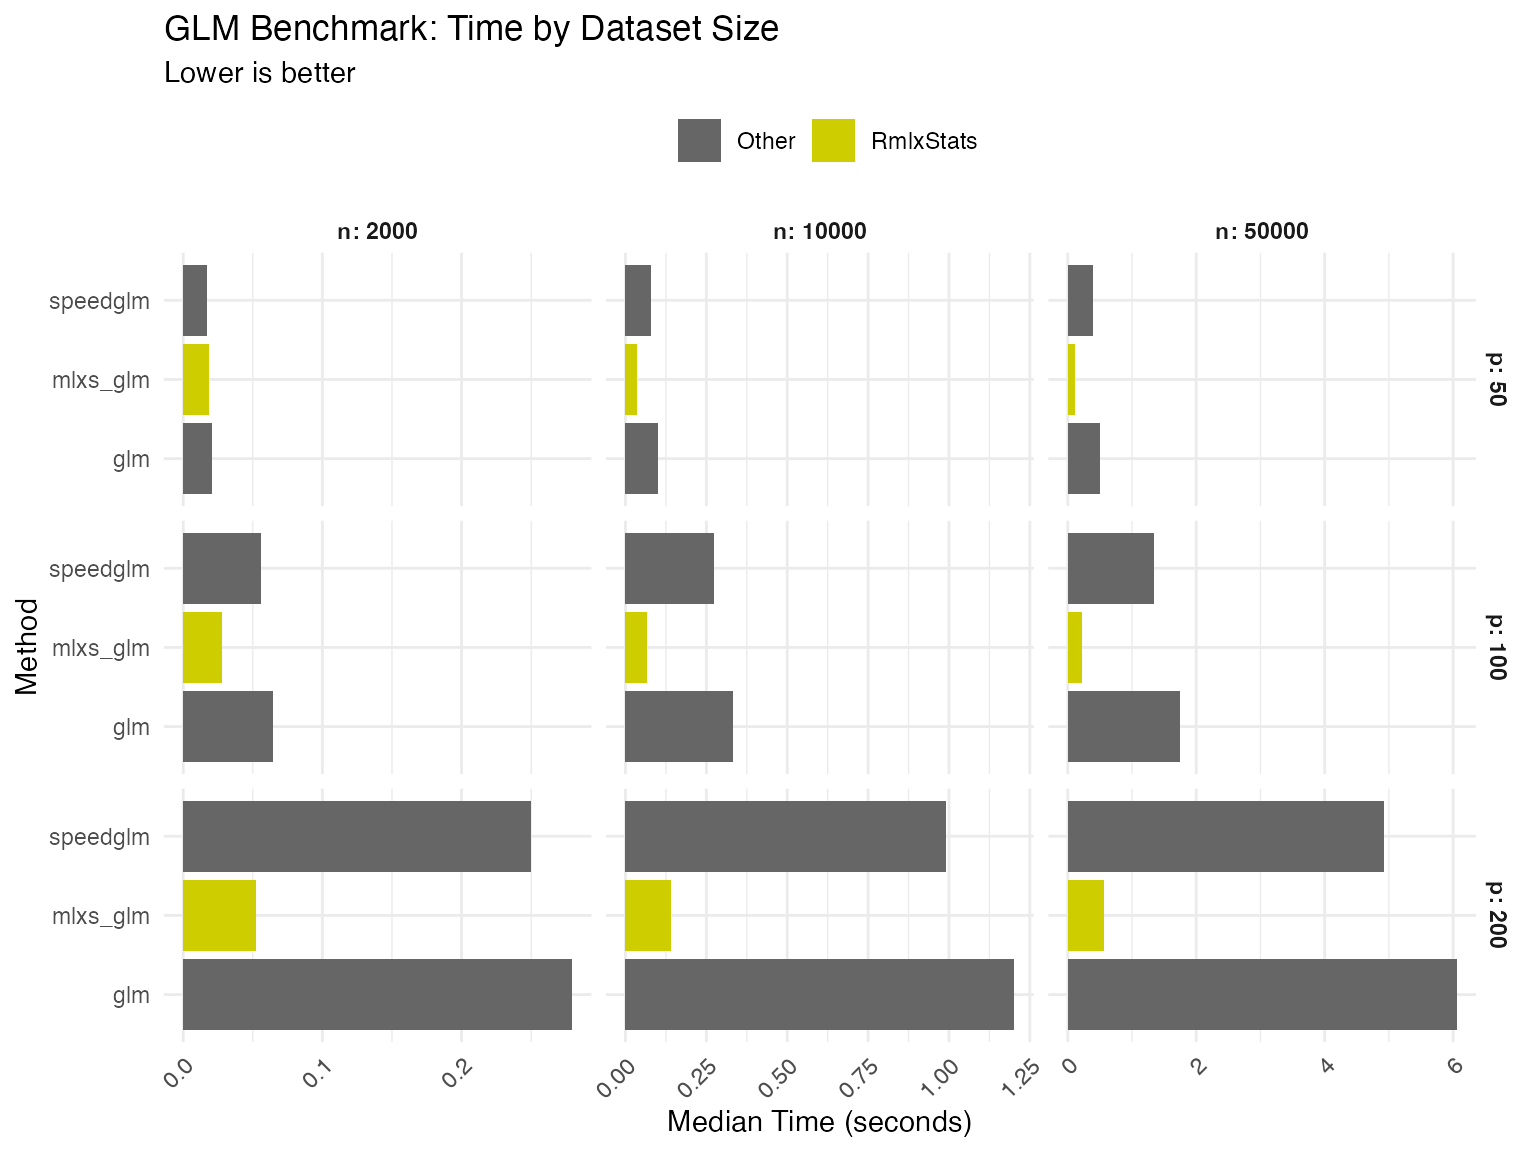
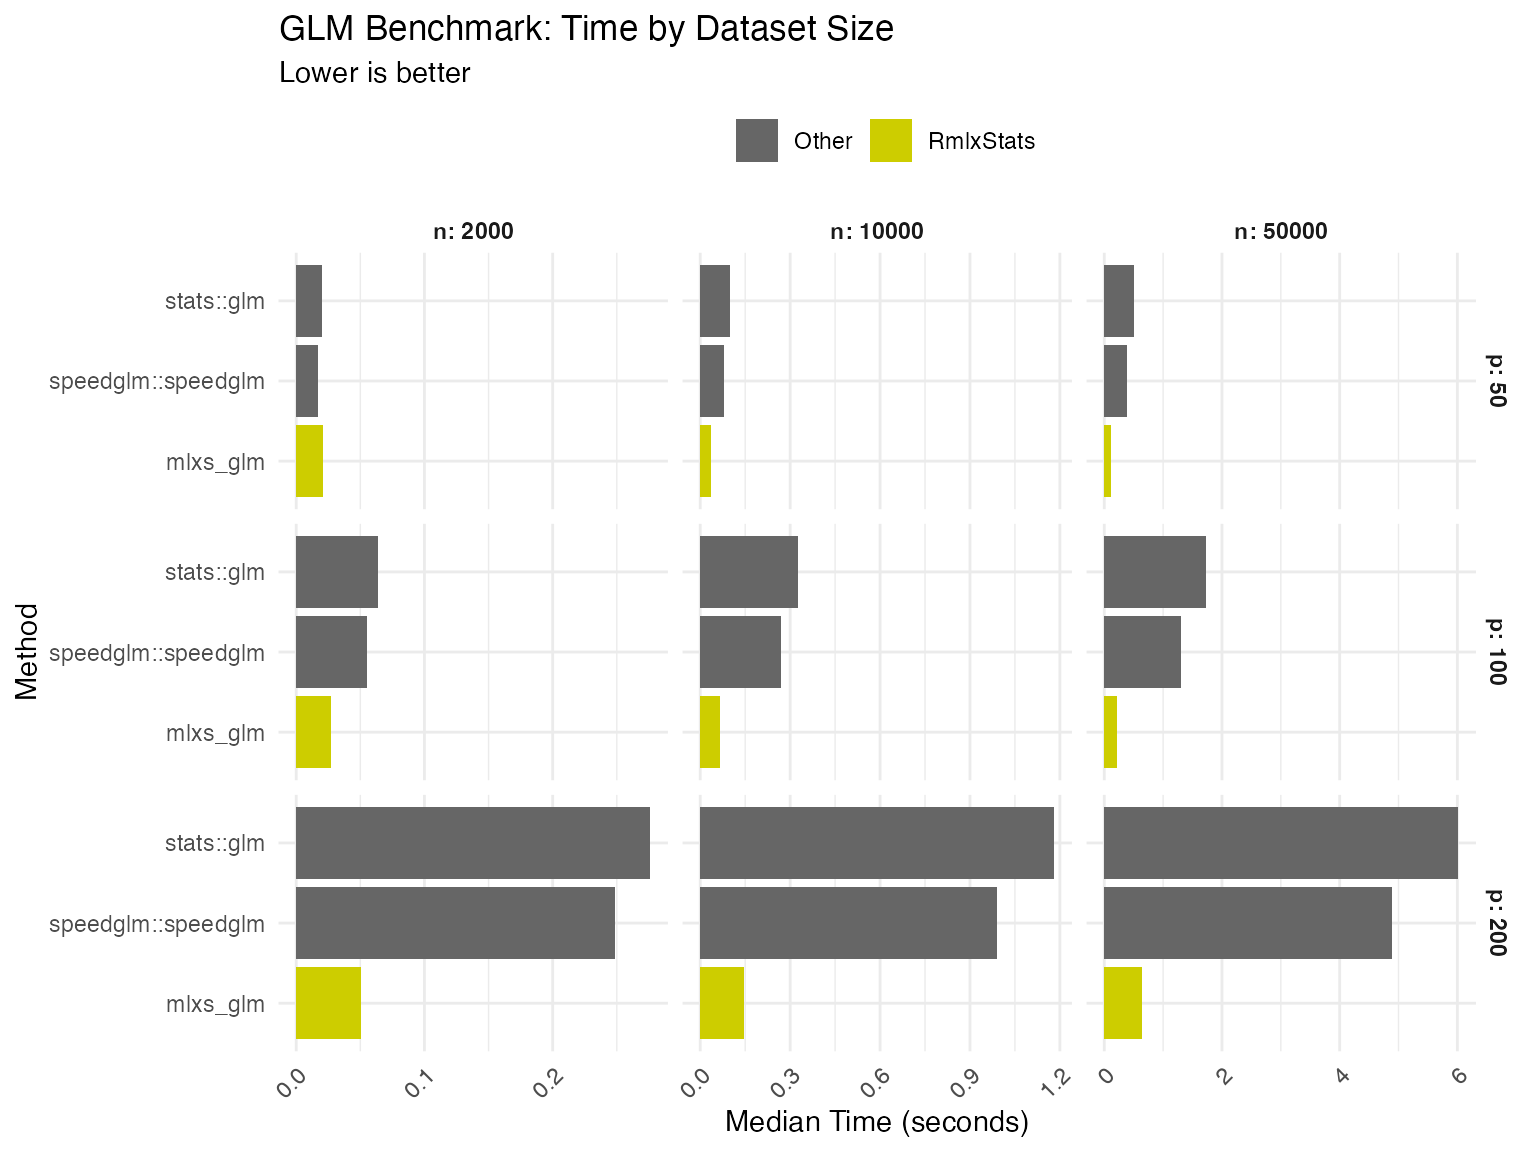
Built site for RmlxStats@0.1.0:

diff --git a/articles/benchmarks.html b/articles/benchmarks.html
@@ -119,14 +119,14 @@ predictors (<code>p</code>).</p>
 <span>  <span class="va">lm_formula</span> <span class="op">&lt;-</span> <span class="fu"><a href="https://rdrr.io/r/stats/formula.html" class="external-link">as.formula</a></span><span class="op">(</span><span class="va">formula_str</span><span class="op">)</span></span>
 <span></span>
 <span>  <span class="va">bm</span> <span class="op">&lt;-</span> <span class="fu">mark</span><span class="op">(</span></span>
-<span>    lm <span class="op">=</span> <span class="fu"><a href="https://rdrr.io/r/stats/lm.html" class="external-link">lm</a></span><span class="op">(</span><span class="va">lm_formula</span>, data <span class="op">=</span> <span class="va">subset_data</span><span class="op">)</span>,</span>
+<span>    <span class="st">"stats::lm"</span> <span class="op">=</span> <span class="fu"><a href="https://rdrr.io/r/stats/lm.html" class="external-link">lm</a></span><span class="op">(</span><span class="va">lm_formula</span>, data <span class="op">=</span> <span class="va">subset_data</span><span class="op">)</span>,</span>
 <span>    mlxs_lm <span class="op">=</span> <span class="op">{</span></span>
 <span>      <span class="va">l</span> <span class="op">&lt;-</span> <span class="fu"><a href="../reference/mlxs_lm.html">mlxs_lm</a></span><span class="op">(</span><span class="va">lm_formula</span>, data <span class="op">=</span> <span class="va">subset_data</span><span class="op">)</span></span>
 <span>      <span class="fu">Rmlx</span><span class="fu">::</span><span class="fu"><a href="https://hughjonesd.github.io/Rmlx/reference/mlx_eval.html" class="external-link">mlx_eval</a></span><span class="op">(</span><span class="va">l</span><span class="op">$</span><span class="va">coefficients</span><span class="op">)</span></span>
 <span>    <span class="op">}</span>,</span>
-<span>    feols <span class="op">=</span> <span class="fu">feols</span><span class="op">(</span><span class="va">lm_formula</span>, data <span class="op">=</span> <span class="va">subset_data</span><span class="op">)</span>,</span>
-<span>    fastLm <span class="op">=</span> <span class="fu">RcppEigen</span><span class="fu">::</span><span class="fu"><a href="https://rdrr.io/pkg/RcppEigen/man/fastLm.html" class="external-link">fastLm</a></span><span class="op">(</span><span class="va">lm_formula</span>, data <span class="op">=</span> <span class="va">subset_data</span><span class="op">)</span>,</span>
-<span>    speedlm <span class="op">=</span> <span class="fu">speedglm</span><span class="fu">::</span><span class="fu"><a href="https://rdrr.io/pkg/speedglm/man/speedlm.html" class="external-link">speedlm</a></span><span class="op">(</span><span class="va">lm_formula</span>, data <span class="op">=</span> <span class="va">subset_data</span><span class="op">)</span>,</span>
+<span>    <span class="st">"fixest::feols"</span> <span class="op">=</span> <span class="fu">feols</span><span class="op">(</span><span class="va">lm_formula</span>, data <span class="op">=</span> <span class="va">subset_data</span><span class="op">)</span>,</span>
+<span>    <span class="st">"RcppEigen::fastLm"</span> <span class="op">=</span> <span class="fu">RcppEigen</span><span class="fu">::</span><span class="fu"><a href="https://rdrr.io/pkg/RcppEigen/man/fastLm.html" class="external-link">fastLm</a></span><span class="op">(</span><span class="va">lm_formula</span>, data <span class="op">=</span> <span class="va">subset_data</span><span class="op">)</span>,</span>
+<span>    <span class="st">"speedglm::speedlm"</span> <span class="op">=</span> <span class="fu">speedglm</span><span class="fu">::</span><span class="fu"><a href="https://rdrr.io/pkg/speedglm/man/speedlm.html" class="external-link">speedlm</a></span><span class="op">(</span><span class="va">lm_formula</span>, data <span class="op">=</span> <span class="va">subset_data</span><span class="op">)</span>,</span>
 <span>    iterations <span class="op">=</span> <span class="fl">3</span>,</span>
 <span>    check <span class="op">=</span> <span class="cn">FALSE</span>,</span>
 <span>    filter_gc <span class="op">=</span> <span class="cn">FALSE</span></span>
@@ -155,7 +155,7 @@ predictors (<code>p</code>).</p>
 <span>  <span class="va">glm_formula</span> <span class="op">&lt;-</span> <span class="fu"><a href="https://rdrr.io/r/stats/formula.html" class="external-link">as.formula</a></span><span class="op">(</span><span class="va">formula_str</span><span class="op">)</span></span>
 <span></span>
 <span>  <span class="va">bm</span> <span class="op">&lt;-</span> <span class="fu">mark</span><span class="op">(</span></span>
-<span>    glm <span class="op">=</span> <span class="fu"><a href="https://rdrr.io/r/stats/glm.html" class="external-link">glm</a></span><span class="op">(</span><span class="va">glm_formula</span>, family <span class="op">=</span> <span class="fu"><a href="https://rdrr.io/r/stats/family.html" class="external-link">binomial</a></span><span class="op">(</span><span class="op">)</span>,</span>
+<span>    <span class="st">"stats::glm"</span> <span class="op">=</span> <span class="fu"><a href="https://rdrr.io/r/stats/glm.html" class="external-link">glm</a></span><span class="op">(</span><span class="va">glm_formula</span>, family <span class="op">=</span> <span class="fu"><a href="https://rdrr.io/r/stats/family.html" class="external-link">binomial</a></span><span class="op">(</span><span class="op">)</span>,</span>
 <span>                             data <span class="op">=</span> <span class="va">subset_data</span>,</span>
 <span>                             control <span class="op">=</span> <span class="fu"><a href="https://rdrr.io/r/base/list.html" class="external-link">list</a></span><span class="op">(</span>maxit <span class="op">=</span> <span class="fl">50</span><span class="op">)</span><span class="op">)</span>,</span>
 <span>    mlxs_glm <span class="op">=</span> <span class="op">{</span></span>
@@ -164,7 +164,7 @@ predictors (<code>p</code>).</p>
 <span>                        control <span class="op">=</span> <span class="fu"><a href="https://rdrr.io/r/base/list.html" class="external-link">list</a></span><span class="op">(</span>maxit <span class="op">=</span> <span class="fl">50</span>, epsilon <span class="op">=</span> <span class="fl">1e-6</span><span class="op">)</span><span class="op">)</span></span>
 <span>      <span class="fu">Rmlx</span><span class="fu">::</span><span class="fu"><a href="https://hughjonesd.github.io/Rmlx/reference/mlx_eval.html" class="external-link">mlx_eval</a></span><span class="op">(</span><span class="va">g</span><span class="op">$</span><span class="va">coefficients</span><span class="op">)</span></span>
 <span>    <span class="op">}</span>,</span>
-<span>    speedglm <span class="op">=</span> <span class="fu">speedglm</span><span class="fu">::</span><span class="fu"><a href="https://rdrr.io/pkg/speedglm/man/speedglm.html" class="external-link">speedglm</a></span><span class="op">(</span><span class="va">glm_formula</span>, family <span class="op">=</span> <span class="fu"><a href="https://rdrr.io/r/stats/family.html" class="external-link">binomial</a></span><span class="op">(</span><span class="op">)</span>,</span>
+<span>    <span class="st">"speedglm::speedglm"</span> <span class="op">=</span> <span class="fu">speedglm</span><span class="fu">::</span><span class="fu"><a href="https://rdrr.io/pkg/speedglm/man/speedglm.html" class="external-link">speedglm</a></span><span class="op">(</span><span class="va">glm_formula</span>, family <span class="op">=</span> <span class="fu"><a href="https://rdrr.io/r/stats/family.html" class="external-link">binomial</a></span><span class="op">(</span><span class="op">)</span>,</span>
 <span>                                   data <span class="op">=</span> <span class="va">subset_data</span><span class="op">)</span>,</span>
 <span>    iterations <span class="op">=</span> <span class="fl">3</span>,</span>
 <span>    check <span class="op">=</span> <span class="cn">FALSE</span>,</span>
@@ -272,77 +272,33 @@ fastest alternative tested. Numbers show
 <caption>RmlxStats vs Base R (%). Above 100% → RmlxStats is
 faster</caption>
 <colgroup>
-<col width="14%">
-<col width="8%">
-<col width="9%">
-<col width="9%">
-<col width="9%">
-<col width="10%">
-<col width="10%">
-<col width="9%">
-<col width="10%">
-<col width="10%">
+<col width="27%">
+<col width="16%">
+<col width="18%">
+<col width="18%">
+<col width="19%">
 </colgroup>
 <thead><tr class="header">
 <th align="left"></th>
 <th align="right">n=2000, p=50</th>
 <th align="right">n=10000, p=50</th>
-<th align="right">n=50000, p=50</th>
 <th align="right">n=2000, p=100</th>
 <th align="right">n=10000, p=100</th>
-<th align="right">n=50000, p=100</th>
-<th align="right">n=2000, p=200</th>
-<th align="right">n=10000, p=200</th>
-<th align="right">n=50000, p=200</th>
 </tr></thead>
 <tbody>
 <tr class="odd">
-<td align="left">Linear Model</td>
-<td align="right">157.0</td>
-<td align="right">221.2</td>
-<td align="right">268.1</td>
-<td align="right">238.5</td>
-<td align="right">359.2</td>
-<td align="right">411.7</td>
-<td align="right">392.0</td>
-<td align="right">581.9</td>
-<td align="right">814.5</td>
-</tr>
-<tr class="even">
-<td align="left">Logistic Regression</td>
-<td align="right">110.3</td>
-<td align="right">276.7</td>
-<td align="right">439.8</td>
-<td align="right">232.9</td>
-<td align="right">502.6</td>
-<td align="right">795.5</td>
-<td align="right">531.1</td>
-<td align="right">851.9</td>
-<td align="right">1070.0</td>
-</tr>
-<tr class="odd">
 <td align="left">Bootstrap (Case)</td>
-<td align="right">374.2</td>
-<td align="right">460.5</td>
-<td align="right"></td>
-<td align="right">513.3</td>
-<td align="right">621.3</td>
-<td align="right"></td>
-<td align="right"></td>
-<td align="right"></td>
-<td align="right"></td>
+<td align="right">374.1</td>
+<td align="right">463.6</td>
+<td align="right">334.1</td>
+<td align="right">629.0</td>
 </tr>
 <tr class="even">
 <td align="left">Bootstrap (Residual)</td>
-<td align="right">126.7</td>
-<td align="right">236.8</td>
-<td align="right"></td>
-<td align="right">358.3</td>
-<td align="right">626.9</td>
-<td align="right"></td>
-<td align="right"></td>
-<td align="right"></td>
-<td align="right"></td>
+<td align="right">131.5</td>
+<td align="right">226.1</td>
+<td align="right">321.2</td>
+<td align="right">636.4</td>
 </tr>
 </tbody>
 </table>
@@ -350,77 +306,33 @@ faster</caption>
 <caption>RmlxStats vs Fastest Alternative (%). Above 100% → RmlxStats is
 faster</caption>
 <colgroup>
-<col width="14%">
-<col width="8%">
-<col width="9%">
-<col width="9%">
-<col width="9%">
-<col width="10%">
-<col width="10%">
-<col width="9%">
-<col width="10%">
-<col width="10%">
+<col width="27%">
+<col width="16%">
+<col width="18%">
+<col width="18%">
+<col width="19%">
 </colgroup>
 <thead><tr class="header">
 <th align="left"></th>
 <th align="right">n=2000, p=50</th>
 <th align="right">n=10000, p=50</th>
-<th align="right">n=50000, p=50</th>
 <th align="right">n=2000, p=100</th>
 <th align="right">n=10000, p=100</th>
-<th align="right">n=50000, p=100</th>
-<th align="right">n=2000, p=200</th>
-<th align="right">n=10000, p=200</th>
-<th align="right">n=50000, p=200</th>
 </tr></thead>
 <tbody>
 <tr class="odd">
-<td align="left">Linear Model</td>
-<td align="right">103.7</td>
-<td align="right">130.7</td>
-<td align="right">171.7</td>
-<td align="right">124.5</td>
-<td align="right">183.4</td>
-<td align="right">205.4</td>
-<td align="right">163.5</td>
-<td align="right">255.0</td>
-<td align="right">364.5</td>
-</tr>
-<tr class="even">
-<td align="left">Logistic Regression</td>
-<td align="right">92.2</td>
-<td align="right">216.0</td>
-<td align="right">341.5</td>
-<td align="right">201.3</td>
-<td align="right">411.6</td>
-<td align="right">610.2</td>
-<td align="right">475.4</td>
-<td align="right">702.3</td>
-<td align="right">870.8</td>
-</tr>
-<tr class="odd">
 <td align="left">Bootstrap (Case)</td>
-<td align="right">374.2</td>
-<td align="right">460.5</td>
-<td align="right"></td>
-<td align="right">513.3</td>
-<td align="right">621.3</td>
-<td align="right"></td>
-<td align="right"></td>
-<td align="right"></td>
-<td align="right"></td>
+<td align="right">374.1</td>
+<td align="right">463.6</td>
+<td align="right">334.1</td>
+<td align="right">629.0</td>
 </tr>
 <tr class="even">
 <td align="left">Bootstrap (Residual)</td>
-<td align="right">126.7</td>
-<td align="right">236.8</td>
-<td align="right"></td>
-<td align="right">358.3</td>
-<td align="right">626.9</td>
-<td align="right"></td>
-<td align="right"></td>
-<td align="right"></td>
-<td align="right"></td>
+<td align="right">131.5</td>
+<td align="right">226.1</td>
+<td align="right">321.2</td>
+<td align="right">636.4</td>
 </tr>
 </tbody>
 </table>

diff --git a/index.html b/index.html
@@ -61,15 +61,26 @@
 <div class="section level2">
 <h2 id="when-to-use">When to use<a class="anchor" aria-label="anchor" href="#when-to-use"></a>
 </h2>
-<p>Very roughly, RmlxStats becomes competitive once you have ~10,000 rows and ~50 columns. Below that, startup costs dominate. See the benchmarks vignette for more details.</p>
+<p>RmlxStats offers large speedups against both base R functions, and speed-optimized packages like speedglm and RCppEigen. Speedups are especially large for regressions with many predictors (large p).</p>
+<p>Very roughly, if you have 50 or more predictors and 10,000 or more rows, or if your regressions are taking measurable time to complete, RmlxStats is worth trying:</p>
+<div class="sourceCode" id="cb1"><pre class="sourceCode r"><code class="sourceCode r"><span id="cb1-1"><a href="#cb1-1" tabindex="-1"></a><span class="co"># On my machine</span></span>
+<span id="cb1-2"><a href="#cb1-2" tabindex="-1"></a><span class="sc">&gt;</span> <span class="fu">system.time</span>({lm <span class="ot">&lt;-</span> <span class="fu">lm</span>(arr_delay <span class="sc">~</span> dep_delay <span class="sc">+</span> <span class="fu">factor</span>(<span class="fu">paste</span>(month,day)), <span class="at">data =</span> nycflights13<span class="sc">::</span>flights); })</span>
+<span id="cb1-3"><a href="#cb1-3" tabindex="-1"></a>   user  system elapsed </span>
+<span id="cb1-4"><a href="#cb1-4" tabindex="-1"></a> <span class="fl">31.310</span>   <span class="fl">0.179</span>  <span class="fl">31.479</span> </span>
+<span id="cb1-5"><a href="#cb1-5" tabindex="-1"></a></span>
+<span id="cb1-6"><a href="#cb1-6" tabindex="-1"></a><span class="sc">&gt;</span> <span class="fu">system.time</span>({lm2 <span class="ot">&lt;-</span> <span class="fu">mlxs_lm</span>(arr_delay <span class="sc">~</span> dep_delay <span class="sc">+</span> <span class="fu">factor</span>(<span class="fu">paste</span>(month,day)), <span class="at">data =</span> nycflights13<span class="sc">::</span>flights); Rmlx<span class="sc">::</span><span class="fu">mlx_eval</span>(lm2<span class="sc">$</span>coefficients)})</span>
+<span id="cb1-7"><a href="#cb1-7" tabindex="-1"></a>   user  system elapsed </span>
+<span id="cb1-8"><a href="#cb1-8" tabindex="-1"></a>  <span class="fl">4.421</span>   <span class="fl">0.271</span>   <span class="fl">2.818</span> </span></code></pre></div>
+<p>See the benchmarks vignette for more details.</p>
+<p>GPU calculations use float32 precision, so if you need higher numerical accuracy than this, RmlxStats may not be the right tool.</p>
 </div>
 <div class="section level2">
 <h2 id="installation">Installation<a class="anchor" aria-label="anchor" href="#installation"></a>
 </h2>
-<p>Install Apple’s MLX runtime (provides the Metal-backed tensor engine):</p>
-<div class="sourceCode" id="cb1"><pre class="sourceCode bash"><code class="sourceCode bash"><span id="cb1-1"><a href="#cb1-1" tabindex="-1"></a><span class="ex">brew</span> install mlx</span></code></pre></div>
+<p>Install Apple’s MLX runtime:</p>
+<div class="sourceCode" id="cb2"><pre class="sourceCode bash"><code class="sourceCode bash"><span id="cb2-1"><a href="#cb2-1" tabindex="-1"></a><span class="ex">brew</span> install mlx</span></code></pre></div>
 <p>Then:</p>
-<div class="sourceCode" id="cb2"><pre class="downlit sourceCode r">
+<div class="sourceCode" id="cb3"><pre class="downlit sourceCode r">
 <code class="sourceCode R"><span><span class="fu">remotes</span><span class="fu">::</span><span class="fu"><a href="https://remotes.r-lib.org/reference/install_github.html" class="external-link">install_github</a></span><span class="op">(</span><span class="st">"hughjonesd/RmlxStats"</span><span class="op">)</span></span></code></pre></div>
 <p>which will also install Rmlx.</p>
 </div>
